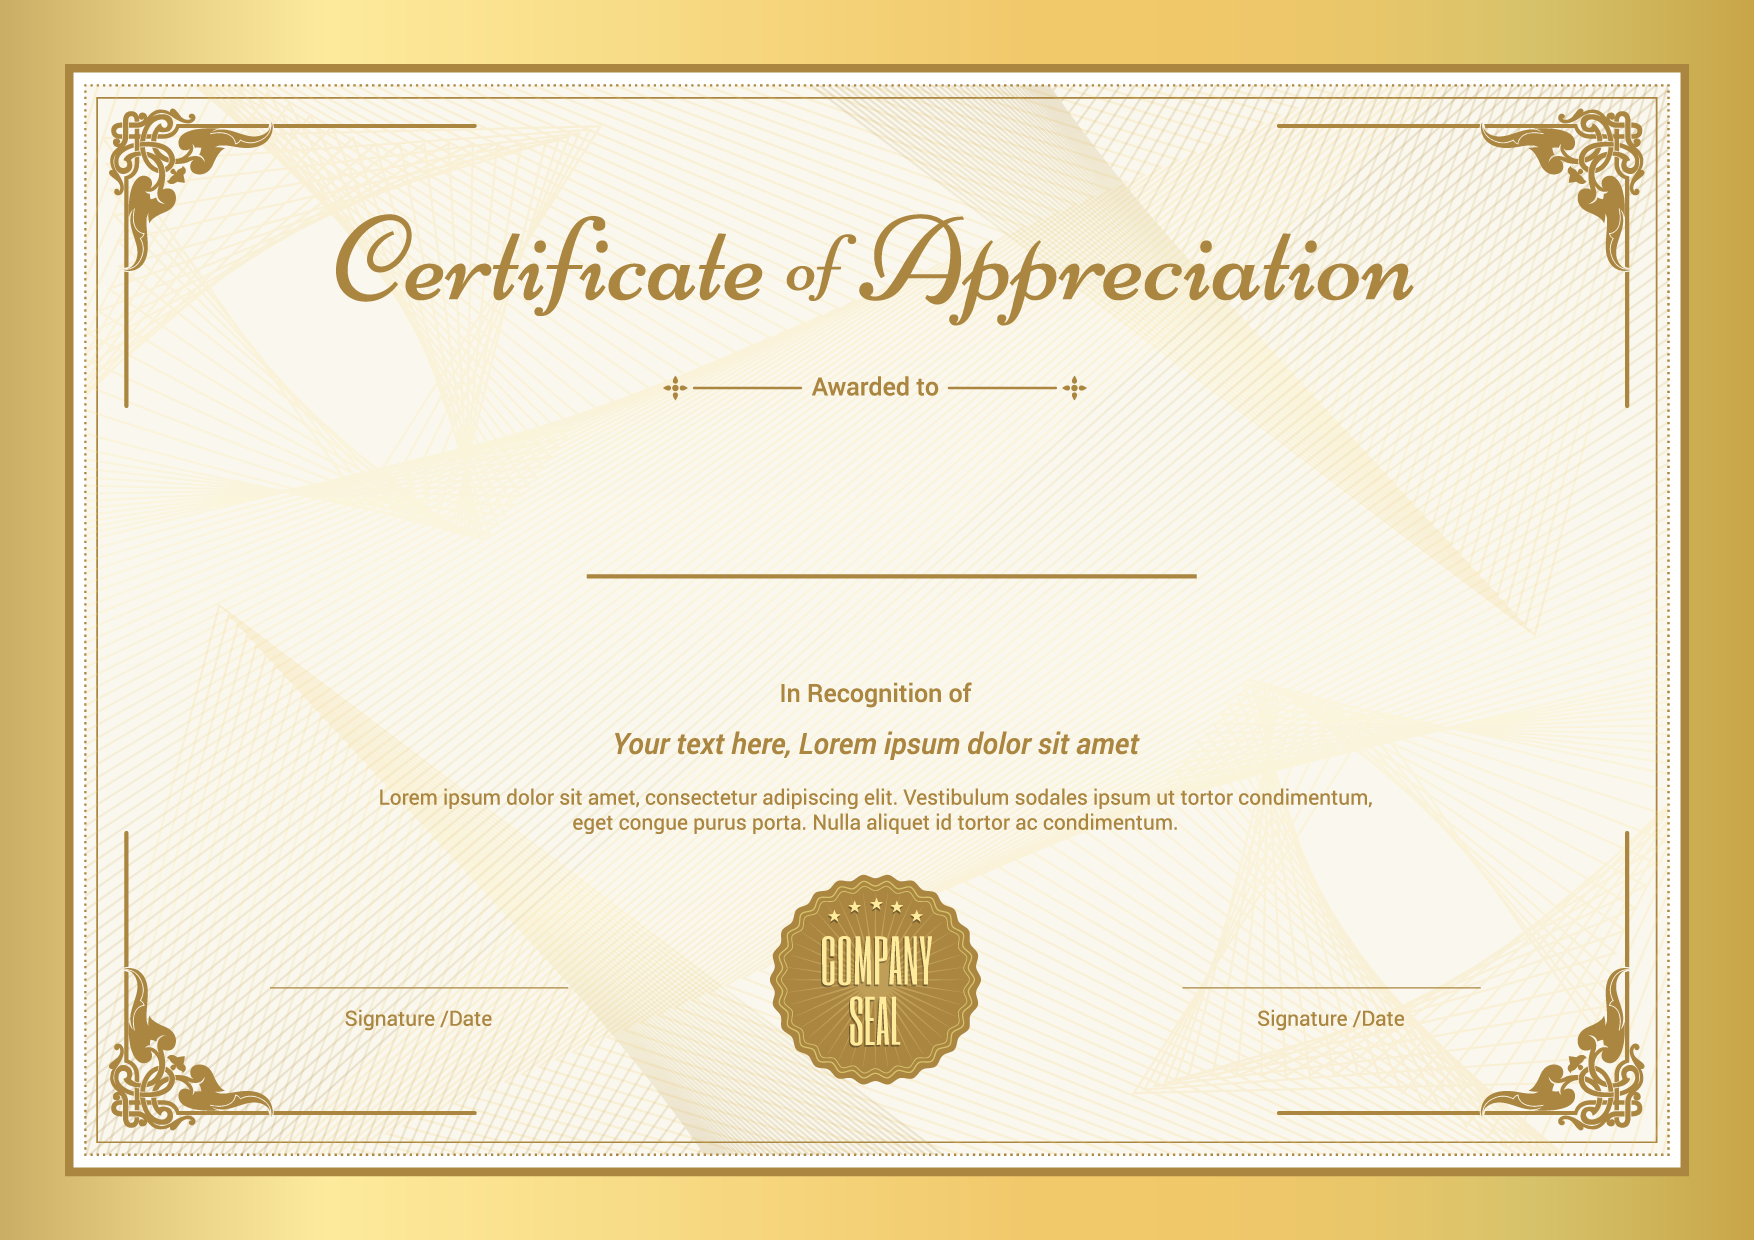
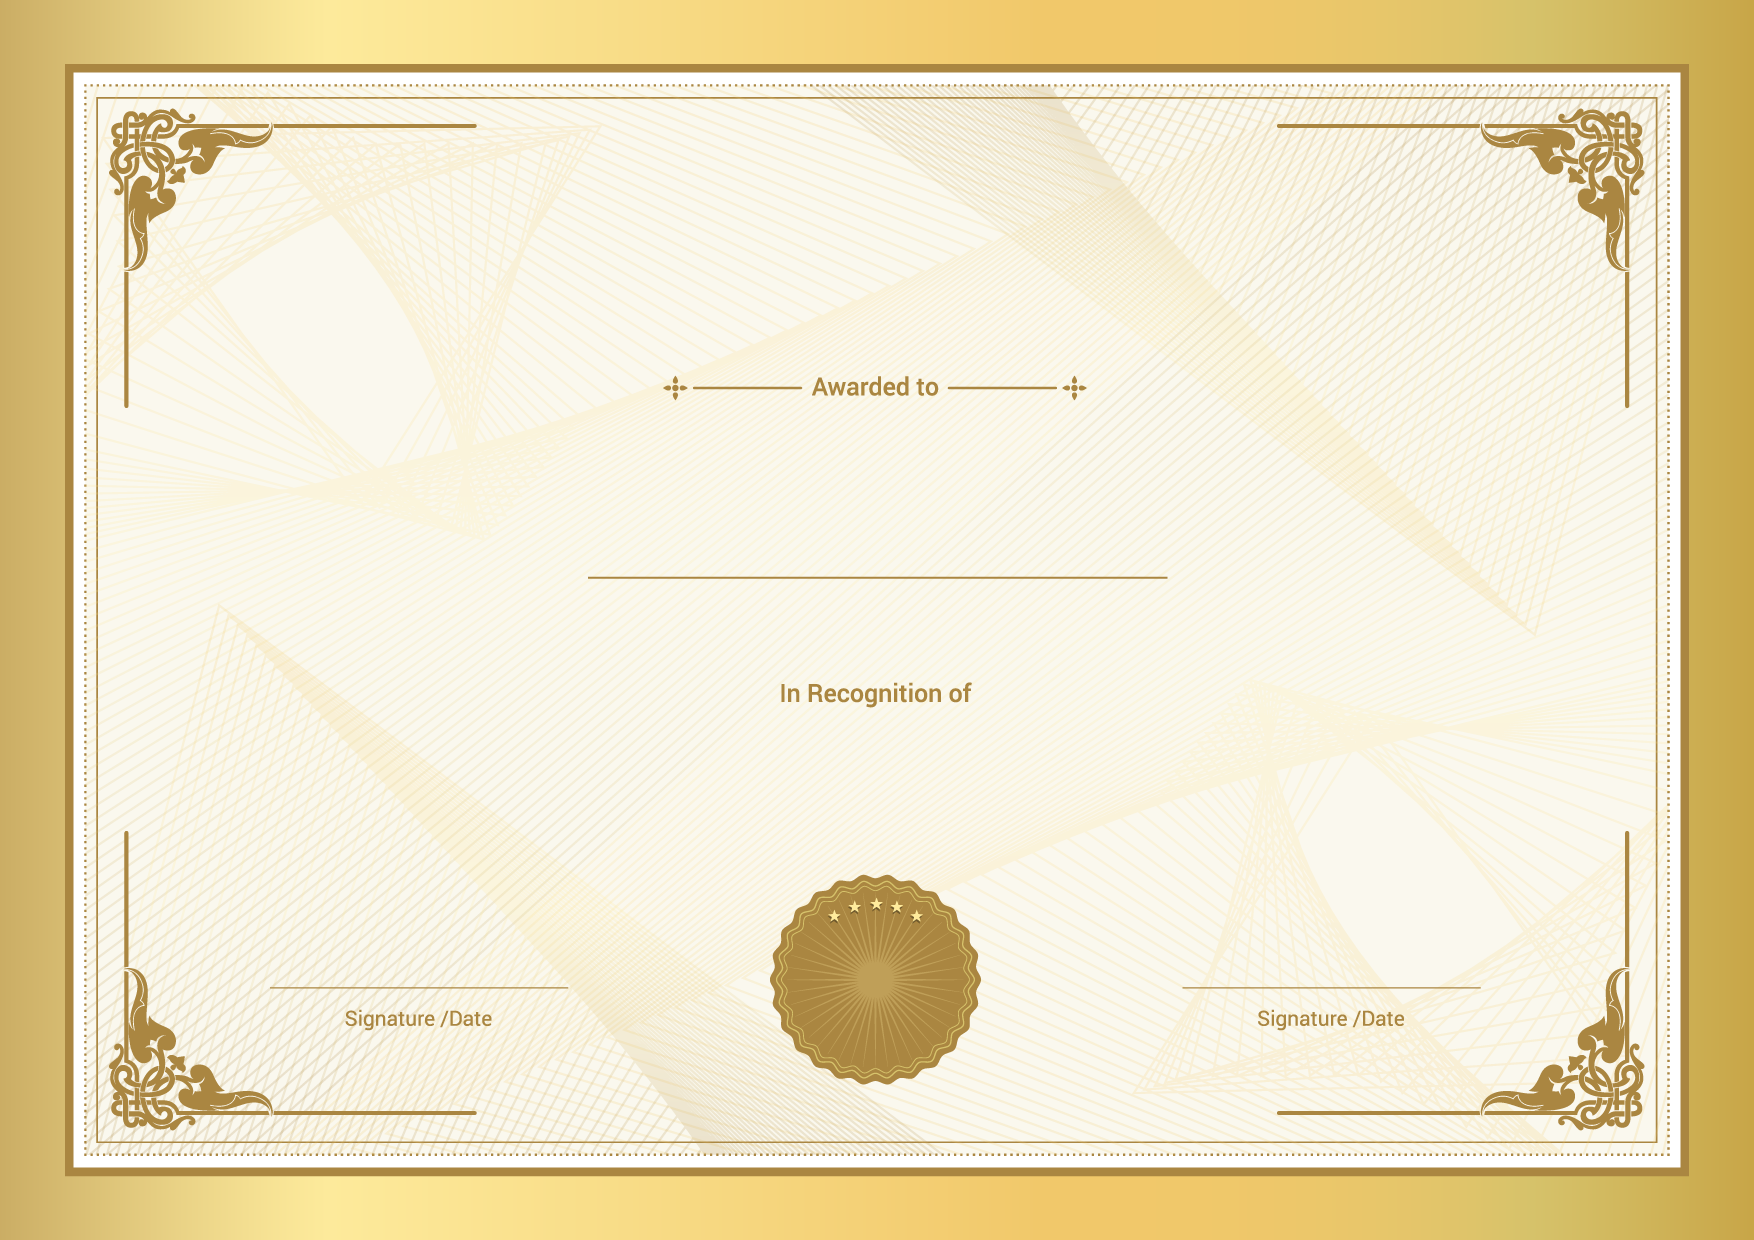
Added second cert
Yeah

diff --git a/jerkapp/src/components/create-the-cert.vue b/jerkapp/src/components/create-the-cert.vue
@@ -1,10 +1,47 @@
 <template>
   <div class="columns">
-  <div class="column">
-    <h1>{{ jerkname }}</h1>
+  <div class="column is-two-thirds certback">
+    <div class="thecert" id="maincert" :style="{'background-image': 'url(' + require('./../assets/img/cert-'+ certnum +'.png') + ')'}">
+    <div class="overcertcontain" id="overcontainer">
+      <div class="innercontainer">
+    <p class="jerkname-title">{{ jerktitle }}</p>
+    <p class="jerkname-a">{{ jerkname }}</p>
   </div>
-  <div class="column">
+  </div>
+  </div>
+  </div>
+  <div class="column has-text-left">
+
+<div class="field">
+  <label class="label">Choose Cert</label>
+  <div class="control has-icons-left">
+    <input v-model="certnum" type="number" min="1" max="2">
+    <span class="icon is-small is-left">
+      <i class="fas fa-user"></i>
+    </span>
+  </div>
+</div>
+<!-- ////////////////// -->
+<div class="field">
+  <label class="label">Certificate of</label>
+  <div class="control has-icons-left">
+    <input v-model="jerktitle" placeholder="Certificate of Shittiness">
+    <span class="icon is-small is-left">
+      <i class="fas fa-user"></i>
+    </span>
+  </div>
+</div>
+<!-- ////////////////// -->
+<div class="field">
+  <label class="label">Name of Person</label>
+  <div class="control has-icons-left">
     <input v-model="jerkname" placeholder="Name of Jerk">
+    <span class="icon is-small is-left">
+      <i class="fas fa-user"></i>
+    </span>
+  </div>
+</div>
+
   </div>
 </div>
 </template>
@@ -14,14 +51,68 @@ export default {
   name: 'Createthecert',
  data: function () {
     return {
-      jerkname: ''
+      jerktitle: 'Certificate of Shittiness',
+      jerkname: '',
+      certnum: '1'
     }
   },
+      methods: {
+    makeheight: function() {
+      setTimeout(function(){ 
+                var currentHeightElement = document.getElementById('maincert').offsetHeight;
+                console.log(currentHeightElement);
+                 }, 200);
+  }
+},
+created: function(){
+        this.makeheight()
+    }
 }
 </script>
 
 <!-- Add "scoped" attribute to limit CSS to this component only -->
 <style scoped>
+/*font-family: 'Yesteryear', cursive;
+font-family: 'Alex Brush', cursive;
+font-family: 'Cinzel Decorative', cursive;*/
+
+.thecert{
+background-size: contain;
+    background-repeat: no-repeat;
+    background-position: center;
+    height: 70vh;
+    position: relative;
+}
+
+.overcertcontain{
+  position: absolute;
+  top: 0;
+  left: 0;
+  width: 100%;
+  height: 100%;
+  display: block;
+}
+
+.innercontainer{
+    position: relative;
+  top: 0;
+  left: 0;
+  width: 100%;
+  height: 100%;
+  display: block;
+}
+.jerkname-title{
+font-family: 'Yesteryear', cursive;
+margin-top: 9%;
+    font-size: 45px;
+}
+
+.jerkname-a{
+font-family: 'Cinzel Decorative', cursive;
+      margin-top: 24%;
+    font-size: 22px;
+}
+
 h3 {
   margin: 40px 0 0;
 }

diff --git a/jerkapp/public/index.html b/jerkapp/public/index.html
@@ -6,9 +6,10 @@
     <meta name="viewport" content="width=device-width,initial-scale=1.0">
     <link rel="icon" href="<%= BASE_URL %>favicon.ico">
     <title>jerkcert</title>
-    <script src="https://cdnjs.cloudflare.com/ajax/libs/jquery/3.3.1/jquery.min.js" ></script>
+<!--     <script src="https://cdnjs.cloudflare.com/ajax/libs/jquery/3.3.1/jquery.min.js" ></script>
     <script src="https://cdn.snipcart.com/scripts/2.0/snipcart.js" data-api-key="" id="snipcart"></script>
-    <link href="https://cdn.snipcart.com/themes/2.0/base/snipcart.min.css" rel="stylesheet" type="text/css" />
+    <link href="https://cdn.snipcart.com/themes/2.0/base/snipcart.min.css" rel="stylesheet" type="text/css" /> -->
+    <link href="https://fonts.googleapis.com/css?family=Alex+Brush|Cinzel+Decorative|Yesteryear" rel="stylesheet">
     <link href="https://cdnjs.cloudflare.com/ajax/libs/bulma/0.7.2/css/bulma.css" rel="stylesheet" type="text/css" />
   </head>
   <body>

diff --git a/jerkapp/src/components/main-titles.vue b/jerkapp/src/components/main-titles.vue
@@ -1,0 +1,37 @@
+<template>
+  <div class="columns">
+  <div class="column">
+    <h1>{{ jerktitle }}</h1>
+  </div>
+</div>
+</template>
+
+<script>
+export default {
+  name: 'Maintitles',
+ data: function () {
+    return {
+      jerktitle: 'JerkCert'
+    }
+  },
+}
+</script>
+
+<!-- Add "scoped" attribute to limit CSS to this component only -->
+<style scoped>
+h1 {
+  color: #33bec3;
+  font-size: 3em;
+}
+ul {
+  list-style-type: none;
+  padding: 0;
+}
+li {
+  display: inline-block;
+  margin: 0 10px;
+}
+a {
+  color: #42b983;
+}
+</style>

diff --git a/jerkapp/src/App.vue b/jerkapp/src/App.vue
@@ -1,16 +1,18 @@
 <template>
   <div id="app">
-    <img alt="Vue logo" src="./assets/logo.png">
+    <Maintitles/>
     <Createthecert/>
   </div>
 </template>
 
 <script>
+import Maintitles from './components/main-titles.vue'
 import Createthecert from './components/create-the-cert.vue'
 
 export default {
   name: 'app',
   components: {
+    Maintitles,
     Createthecert
   }
 }
